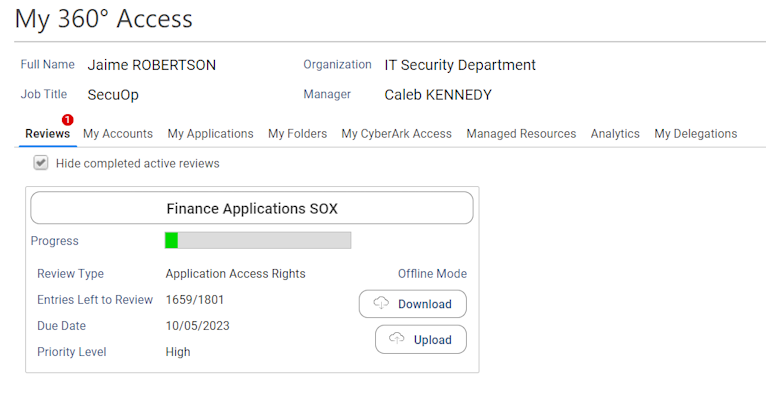
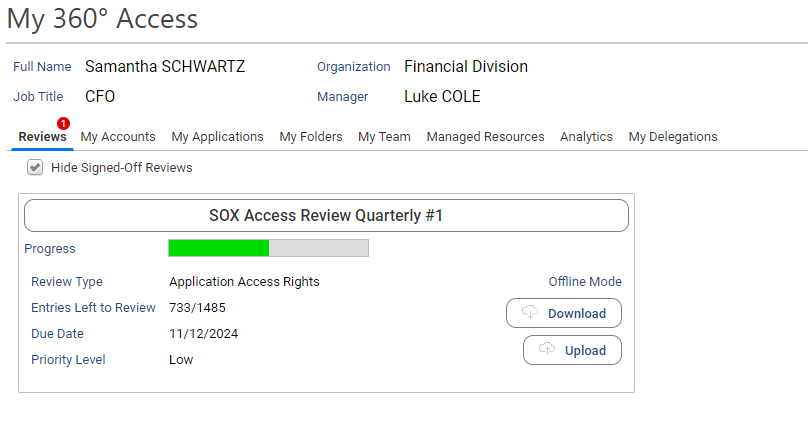
Update doc for 3.1

diff --git a/documentation/identity-analytics/uar-guide/03-key-concepts.md b/documentation/identity-analytics/uar-guide/03-key-concepts.md
@@ -110,9 +110,12 @@ As long as entries still need to be reviewed, *Entries to review* are displayed 
 
 ![](./media/IAP155.png)  
 
-You can either review entries one by one or through bulk operations by selecting several entries and clicking on *bulk approval*, *bulk revocation* in the contextual menu.  
+By default, the option "Hide Signed-Off Reviews" is checked to list only on-going reviews. If you wish to additionally display completed reviews that have been signed-off, uncheck this box. Note that signed-off reviews can no longer be updated by the reviewer, only the campaign owner can reset or update them.  
+You can either review entries one by one or through bulk operations by selecting several entries and clicking on *Approve*, *Revoke* in the contextual menu.  
 You can reorder the table, and filter the entries either by selecting a given account/identity/permission/application or with the free text filter.  
 
+> **Note** in Identity Analytics 3.1 and beyond, when executing bulk actions on multiple entries, the process is now asynchronous, meaning that the end-user can continue to browse the interfaces as required. Of course, it is still not possible to take action on the remaining entries until the current process has been completed.  
+ 
 A contextual menu accessible with a right click on the table helps you to:  
 
 - export the table content in CSV/Excel format
@@ -144,6 +147,16 @@ Finally, you can declare that you are not the reviewer for some entries. In orde
 Those entries will be removed from your list, the *review owner* will be able to identify those entries through the management interface (as their review status will be "to reassign") and reassign them as needed to another person.  
 
 ![](./media/image107.png)  
+
+At any time, by clicking on the icon in the top right-hand corner, you can toggle the table display into pivot table mode to view similarities and make a decision for a group of entries. 
+
+![](./media/IAP274.png) 
+
+When clicking on the "clustering" button in a cross-table, the data is sorted to group users by similar permission sets. Biggest blocks are displayed to the top left of the cross-table, making easier to tackle the most significant groups of similar entries and to identify the outliers at the right and bottom.  
+ 
+![](./media/IAP275.png) 
+
+
 
 ## Management Interface functionalities  
 
@@ -300,6 +313,9 @@ Finally, if discrepancies are found, they are displayed in a dedicated tab.
 
 > A discrepancy corresponds to a case where an entry has been marked as to be revoked, has been successfully remediated (remediation finalized with a closed status "Done") and yet is detected as still active upon data refresh.
 
+> When the resource on which a remediation is launched is no longer available in the current timeslot (the data relating to the resource has not been loaded), the entries will remain in "pending" status. In this case, the remediation administrator must force the status to "won't fix".    
+
+
 ### Configuring the remediation strategy
 
 You can select for each individual application and each individual repository the remediation strategy that you want to apply.  
@@ -310,6 +326,7 @@ In this page, you can:
 
 - Declare third party ITSMs for remediation
 - Declare third party RPA for remediation
+- Declare RadiantOne automated remediation							  
 - Assign a remediation strategy for each individual repository
 - Assign a remediation strategy for each individual application
 
@@ -505,6 +522,12 @@ AIDA will guides the reviewer through four main steps:
     - Orphaned Accounts
     - Unused Accounts
 3. **Similarities**: this step examines the data in cross-tabular mode and identifies for the reviewer all clusters, i.e. identities with similar accesses, enabling decisions to be made quickly on the basis of similarities. It automatically detects up to 7 clusters and leads the reviewer through each one, from the largest to the smallest, using a dedicated clustering algorythm.
+
+**Automatic Identification of Clusters with AIDA in a permission matrix:**
+*Data Examination*: During the Similarities step, AIDA examines the access rights of various users and identifies patterns in the data.
+*Cluster Detection*: AIDA automatically detects clusters, based on a "frequent closed itemsets mining" algorithm that have been especially enhanced for user access review. The detected clusters are groups of identities that display similar access rights based on permissions-application. This helps highlight entries that likely require similar treatment during the review.
+*Clustering Algorithm*: A dedicated algorithm sorts the detected clusters by size, and select the first seven biggest clusters. AIDA guides the reviewer through the largest clusters first, making it easier to tackle the most significant groups of similar entries.
+
 4. **Isolated Items**: this final stage guides the reviewer through the last entries, identity by identity for user accounts and account per account for service/technical.
 
 ![](./media/IAP272.png)  

diff --git a/documentation/identity-analytics/uar-guide/02-my-first-review.md b/documentation/identity-analytics/uar-guide/02-my-first-review.md
@@ -80,7 +80,8 @@ For example, a strategy could be:
 - user accounts are reviewed by the line manager,  
 - technical are reviewed by the application owner,  
 - all other account and if no line manager and no application owner are found, the default reviewer is taken.  
-  
+
+> **Note** For reviews on large volumes of data, above 30,000 entries by default, step 3 `Perimeter Preview` is deactivated to smooth the experience, and the KPIs in step 6 are hidden. As a result, the campaign is forced into "on hold" mode to allow perimeter review from the campaign management interface before launching the reviews. This threshold of 30,000 entries can be modified in the project's technical configuration using the variable `ias_reviewdisablepreviewlimit`. 
 ### Accounts Review Perimeter
 
 To refine the review perimeter, the advanced mode in the first step allows you to include or exclude some types of accounts. For example: User accounts, technical accounts, orphaned accounts and leaver accounts.  
@@ -227,6 +228,11 @@ If some *reviewers* have not been found an error message is displayed on the scr
   
 You still can browse the table to check each entry.  
 If everything is ok, you can click on *Next* to move forward.  
+
+> **Note** For reviews on large volumes of data, above 30,000 entries by default, this step is deactivated to smooth the experience. In that case, the following message will be displayed:  
+
+![](./media/IAP276.png)  
+
   
 ## Step 4 - Reviewer UI  
 
@@ -330,6 +336,8 @@ Finally, in the "Compliance Framework Specification" section, you can define tag
 ![](./media/IAP252.png)  
 
 Once everything is fulfilled, click on **Finish** to save your campaign configuration.  
+  
+> **Note** For reviews on large volumes of data, above 30,000 entries by default, the KPIs in this step are not displayed to smooth the experience. In addition the campaign is forced into "on hold" mode to allow perimeter review from the campaign management interface before launching the reviews.   
 
 ## Step 7 - Managing your review campaign
 
@@ -543,7 +551,7 @@ Grouped by application:
 
 This mode is a graphic mode and allows *reviewers* to have graphic view.  
 
-All entries can be organized to have a rapid view and help to identify discrepancies between accounts. Click on the button highlighted in yellow bellow. Discrepancy accounts will be quickly identified. With this mode bulk approval and bulk revocation are interesting.  
+All entries can be organized to have a rapid view and help to identify discrepancies between accounts. This option allows cluster sorting of crosstable cells using an **advanced classification algorithm**. This will help the end-user to work on peer group. To activate it, he needs to click on the icon on the upper left (framed in red in the copyscreen below). In the case of a cross-table listing identities, accounts and their related permissions, when clicking on the "clustering" button in the cross-table, the data is sorted to group users by similar permission sets. Biggest blocks are displayed to the top left of the cross-table, making easier to tackle the most significant groups of similar entries and to identify the outliers at the right and bottom. 
 
 ![](./media/IAP172.png)
 
@@ -658,6 +666,10 @@ In the example above, some entries still need to be reviewed. This is why a warn
 - mark those remaining entries as *ok*
 - mark those remaining entries as *not reviewed*
 
+> [!warning]  
+>
+> SQL server database limitation: when using a SQL Server database (on-premise installation, self-managed k8s and SaaS are not concerned here), you cannot revoke more than 2000 entries at the “Finalize exam” stage. In that case, *not reviewed* has to be selected.
+
 In our case we will mark them as *not reviewed* even though we **know** that it will correspond to a review failure, and add a comment to:
 
 ![](./media/IAP178-bis.png)
@@ -700,6 +712,8 @@ While remediation are in progress, application technical owners will see those r
 A remediation is following a simple ITSM change management process. Each remediation has its own current status and open/close state.
 
 ![](./media/image46.png)
+
+> **Note:** When the resource on which a remediation is launched is no longer available in the current timeslot (the data relating to the resource has not been loaded), the entries will remain in "pending" status. In this case, the remediation administrator must force the status to "won't fix".  
 
 In our use case, once the *remediation management* displayed, the administrator can follow up the remediation
 We can notice that some action have already been made

diff --git a/documentation/identity-analytics/uar-guide/05-technical-corner.md b/documentation/identity-analytics/uar-guide/05-technical-corner.md
@@ -236,9 +236,9 @@ Four new configuration variables have been added to the project to handle large 
 
 - `ias_reviewersdisplaylimitvalue` used by Identity Analytics 3.0 and 2.2, indicates the maximum number of reviewers to display the "Review Statsitics" tab in the review follow-up interface (accessible via the **Details** button of a review instance). The default value is 1000.
 - `ias_maxentriestoreview` in Identity Analytics 2.2, the maximum number of entries to review per reviewer can be limited by this configuration variable. By default, the limit is set to 30,000. In Identity Analytics 3.0, the limit does not depend to this variable and is set to 100,000.
-- `ias_disablenoniaspreviews` allows to disable the display of custom workflow review types in Access360 to improve performance, used by Identity Analytics 3.0 and 2.2. The default value is false, and it should be activated only if you don't have any custom workflow reviews.
+- `ias_disablenoniappreviews` allows to disable the display of custom workflow review types in Access360 to improve performance, used by Identity Analytics 3.0 and 2.2. The default value is false, and it should be activated only if you don't have any custom workflow reviews.
 - `ias_reviewercriticalthreshold` in Identity Analytics 3.0 and 2.2, indicates the number of entries upon which the review instance is forced to offline mode. The default value is 30,000.
-  
+- `ias_reviewdisablepreviewlimit` in Identity Analytics 3.1 and above, allows for reviews on large volumes of data, above 30,000 entries by default, to deactivate the step 3 `Perimeter Preview` to smooth the experience, as well as hide the KPIs in step 6. As a result, the campaign is forced into "on hold" mode to allow perimeter review from the campaign management interface before launching the reviews.  
 ### AIDA configuration variables
 
 In the technical project configuration file, two variables are available:

diff --git a/documentation/identity-analytics/uar-guide/04-campaign-examples.md b/documentation/identity-analytics/uar-guide/04-campaign-examples.md
@@ -22,6 +22,8 @@ For example, a strategy could be:
 - technical are reviewed by the application owner,  
 - all other account and if no line manager and no application owner are found, the default reviewer is taken.  
 
+> **Note** For reviews on large volumes of data, above 30,000 entries by default, step 3 `Perimeter Preview` is deactivated to smooth the experience, and the KPIs in step 6 are hidden. As a result, the campaign is forced into "on hold" mode to allow perimeter review from the campaign management interface before launching the reviews. This threshold of 30,000 entries can be modified in the project's technical configuration using the variable `ias_reviewdisablepreviewlimit`. 
+
 ## Review all access rights for some applications  
 
 This is the most common use case, in order to do so, you have to select the applications that you want to include in your access review campaign.  
